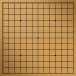
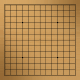
adding 2 pixel border around thumbnail boards so the stones don't get cropped off the edge - closes #8

diff --git a/public/stylesheets/application.css b/public/stylesheets/application.css
@@ -231,7 +231,7 @@ form label {
 .games .game {
   position: relative;
   width: 300px;
-  height: 76px;
+  height: 80px;
 }
 
 .games .game .details {
@@ -255,8 +255,8 @@ form label {
 
 .games .game .thumbnail {
   position: absolute;
-  width: 76px;
-  height: 76px;
+  width: 80px;
+  height: 80px;
   display: block;
 }
 

diff --git a/lib/game_thumb.rb b/lib/game_thumb.rb
@@ -25,7 +25,7 @@ module GameThumb
   def add_stones(board, stone, positions, offset)
     positions.to_s.scan(/[a-s]{2}/).each do |position|
       x, y = Go::GTP::Point.new(position).to_indices
-      board.compose(stone, (x * offset).round, (y * offset).round)
+      board.compose(stone, 2 + (x * offset).round, 2 + (y * offset).round)
     end
   end
 end

diff --git a/app/helpers/games_helper.rb b/app/helpers/games_helper.rb
@@ -12,7 +12,7 @@ module GamesHelper
     thumb = THUMB_DIR + "#{game.id}.png"
     path  = thumb.exist? ? thumb.to_s.sub(/\A.*\bpublic\b/, "") :
                            "thumbnail/#{game.board_size}/board.png"
-    image_tag(path, :size => "76x76")
+    image_tag(path, :size => "80x80")
   end
 
   def link_to_game_thumbnail(game)
